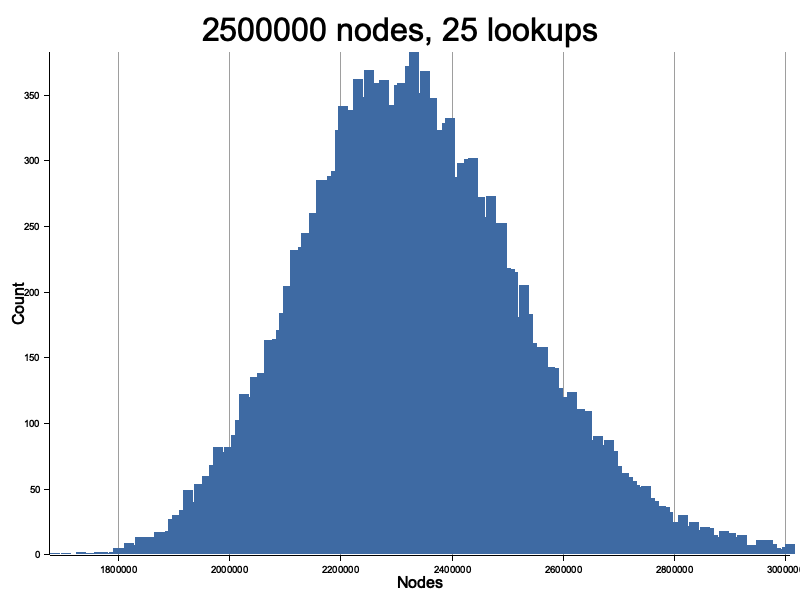
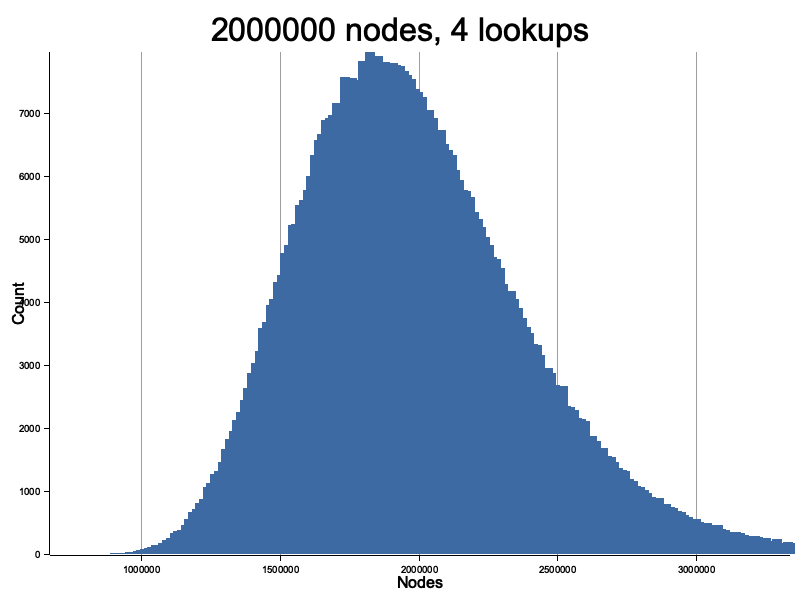
docs: update dht size estimation docs

diff --git a/src/async_dht.rs b/src/async_dht.rs
@@ -159,7 +159,7 @@ impl AsyncDht {
             ))
             .map_err(|_| DhtWasShutdown)?;
 
-        Ok(receiver.recv_async().await.map(|b| Some(b)).unwrap_or(None))
+        Ok(receiver.recv_async().await.map(Some).unwrap_or(None))
     }
 
     /// Put an immutable data to the DHT.

diff --git a/src/dht.rs b/src/dht.rs
@@ -250,7 +250,7 @@ impl Dht {
             ))
             .map_err(|_| DhtWasShutdown)?;
 
-        Ok(receiver.recv().map(|b| Some(b)).unwrap_or(None))
+        Ok(receiver.recv().map(Some).unwrap_or(None))
     }
 
     /// Put an immutable data to the DHT.

diff --git a/docs/dht_size_estimate/src/main.rs b/docs/dht_size_estimate/src/main.rs
@@ -11,7 +11,7 @@ use mainline::{ClosestNodes, Id, Node};
 use plotters::prelude::*;
 use statrs::statistics::*;
 
-const DEFAULT_DHT_SIZE: usize = 2_500_000;
+const DEFAULT_DHT_SIZE: usize = 2_000_000;
 
 const DEFAULT_LOOKUPS: usize = 4;
 

diff --git a/docs/dht_size_estimate/README.md b/docs/dht_size_estimate/README.md
@@ -55,12 +55,19 @@ The final Dht size estimation is the average of `en_1 + en_2 + .. + en_n`
 
 ## Simulation
 
-Running this [simulation](./src/main.rs) for 25 million nodes and a after 25 lookups, we observe:
+Running this [simulation](./src/main.rs) for 20 million nodes and a after 4 lookups, we observe:
 
-- Mean estimate: 2,341,502 nodes
-- Standard deviation: 9%
+- Mean estimate: 2,001,627 nodes
+- Standard deviation: 23%
 
-![dht-25-million-nodes-25-lookup](./plot.png)
+![distribution of estimated dht size after 4 lookups](./plot.png)
+
+
+The relationship between the number of lookups and precision suggest that it doesn't take too many lookups 
+for the 95% confidence intervals to drop below +-20% from the real value. Meaning a very infrequent random
+FIND_NODE queries in the background, is all what an implementation needs to get a good-enough estimation of the size of the dht.
+
+![standrd deviation relative to number of lookups](./plot.png)
 
 ## Limitations
 
